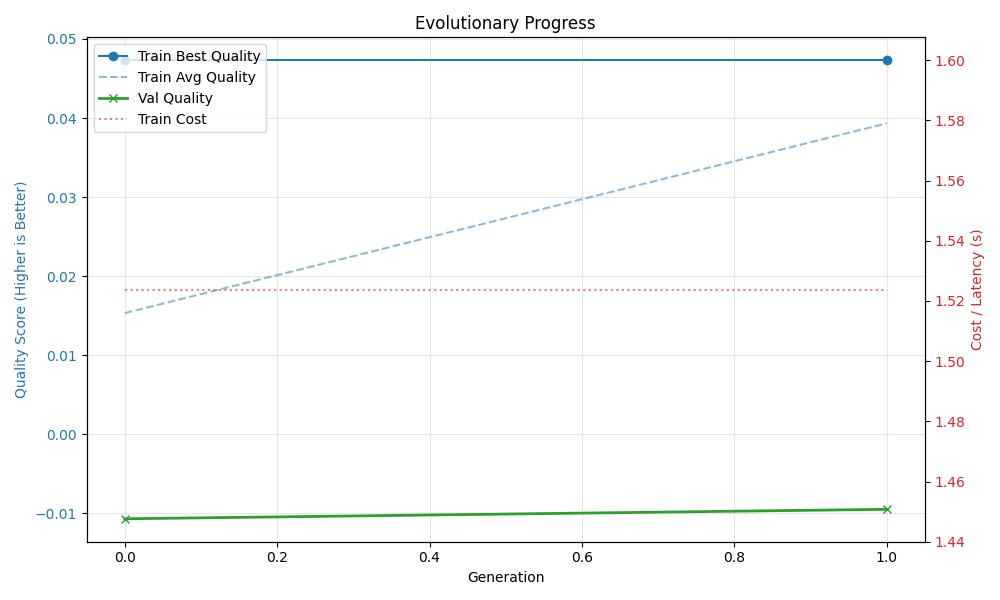
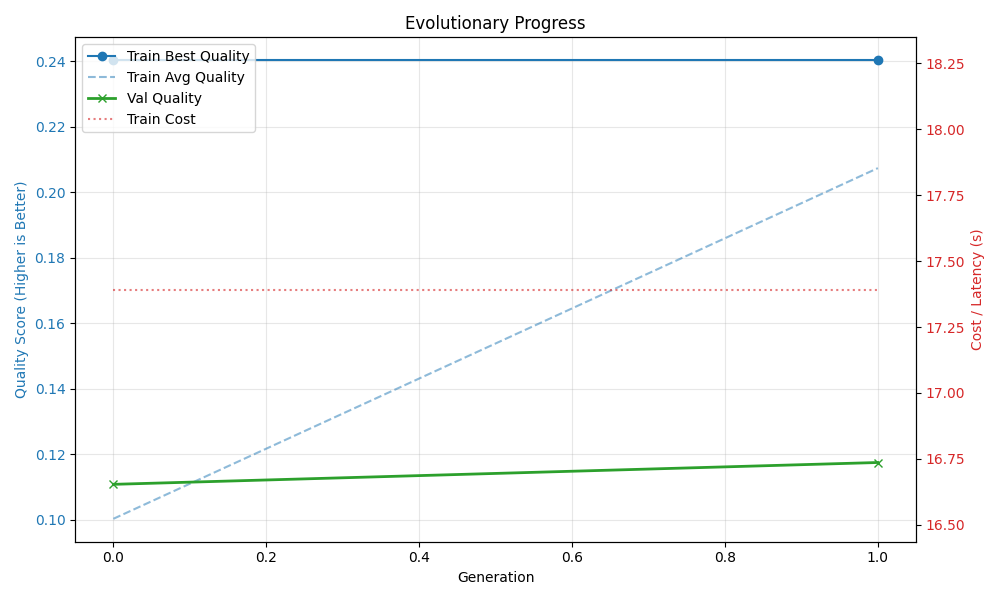
some new strats

diff --git a/swarm_rag_module/swarm_rag/evolution/execution/strategies.py b/swarm_rag_module/swarm_rag/evolution/execution/strategies.py
@@ -270,6 +270,63 @@ class GeneticStrategies:
 
         child.clear_cache()
         return child
+
+    @staticmethod
+    @GeneticRegistry.register_crossover(GeneticKey.ROOT_MIX_CROSSOVER)
+    def root_mix_crossover(parent1: Genome, parent2: Genome, ctx: EvolutionContext) -> Genome:
+        """
+        Swaps top-level branches of strategy trees.
+        This is less destructive than random subtree crossover as it preserves
+        the high-level logic (the operator) if both share it, or swaps whole approaches.
+        """
+        child = parent1.copy()
+        child.mutation_rate = (parent1.mutation_rate + parent2.mutation_rate) / 2.0
+
+        # 1. Uniform Parameter Mix
+        for key in child.params:
+            if random.random() > 0.5:
+                child.params[key] = parent2.params[key]
+        
+        for key in child.group_ratios:
+            if key in parent2.group_ratios and random.random() > 0.5:
+                child.group_ratios[key] = parent2.group_ratios[key]
+
+        # 2. Root Mix Crossover
+        for key in child.strategies:
+            p1_tree = parent1.strategies[key]
+            p2_tree = parent2.strategies[key]
+
+            # 70% chance to mix, 30% chance to clone one parent
+            if random.random() < 0.7:
+                # If both are operators with children (e.g. A * B, C + D)
+                if p1_tree.type == 'op' and p2_tree.type == 'op' and p1_tree.children and p2_tree.children:
+                     # Create new root using Parent 1's operator
+                     new_tree = ExpressionNode(type='op', value=p1_tree.value, children=[])
+                     
+                     # Take one child from P1 and one from P2
+                     # (Assumes binary operators for simplicity, or takes first child)
+                     c1 = p1_tree.children[0].copy()
+                     # If P2 has children, take one, otherwise take P2 itself
+                     c2 = p2_tree.children[-1].copy() if len(p2_tree.children) > 1 else p2_tree.children[0].copy()
+                     
+                     # Randomly swap order
+                     if random.random() > 0.5:
+                         new_tree.children = [c1, c2]
+                     else:
+                         new_tree.children = [c2, c1]
+                     
+                     child.strategies[key] = new_tree
+                else:
+                    # If structures don't match well, just swap the whole tree
+                    child.strategies[key] = p2_tree.copy()
+            else:
+                 if random.random() > 0.5:
+                     child.strategies[key] = p2_tree.copy()
+                 else:
+                     child.strategies[key] = p1_tree.copy()
+
+        child.clear_cache()
+        return child
     
     # --- CREATION ---
 
@@ -625,6 +682,101 @@ class GeneticStrategies:
                      genome.strategies[key] = ExpressionEvolution.mutate_tree(
                          tree, features=feature_list, mutation_rate=1.0, inplace=True
                      )
+
+        genome.clear_cache()
+        return genome
+
+    @staticmethod
+    @GeneticRegistry.register_mutation(GeneticKey.GUIDED_MUTATION)
+    def guided_mutation(genome: Genome, ctx: EvolutionContext) -> Genome:
+        """
+        Smart mutation that encourages known good patterns:
+        - Ensures 'semantic_similarity' is present in movement.
+        - Ensures 'pheromone_repulsion' (diversity) is occasionally injected.
+        - Prevents 'destructive' loss of key features.
+        """
+        tau = 0.2
+        genome.mutation_rate = genome.mutation_rate * np.exp(tau * np.random.normal(0, 1))
+        genome.mutation_rate = max(0.01, min(0.5, genome.mutation_rate))
+        rate = genome.mutation_rate * ctx.global_mutation_multiplier
+
+        # 1. Standard Parameter Jitter (Same as expression_tree_mutation)
+        for key, val in genome.params.items():
+            if random.random() < rate:
+                if random.random() < 0.8: # Fine tuning
+                    if isinstance(val, int):
+                        delta = int(round(random.gauss(0, 1.5)))
+                        genome.params[key] = max(1, val + delta)
+                    elif isinstance(val, float):
+                        genome.params[key] = max(0.001, min(0.999, val * random.gauss(1.0, 0.1)))
+                else: # Resample
+                     ranges = ctx.config.get('param_ranges', {})
+                     if key in ranges:
+                         min_v, max_v = ranges[key]
+                         if isinstance(min_v, int):
+                             genome.params[key] = random.randint(min_v, max_v)
+                         else:
+                             genome.params[key] = random.uniform(min_v, max_v)
+
+        # 2. Guided Tree Mutation
+        for key, tree in genome.strategies.items():
+            if random.random() < rate:
+                feature_list = ctx.expression_features.get(key)
+                if not feature_list:
+                    if "movement" in key: feature_list = ctx.expression_features.get("movement")
+                    elif "deposit" in key: feature_list = ctx.expression_features.get("deposit")
+                    elif "ranking" in key: feature_list = ctx.expression_features.get("ranking")
+                
+                # Check for critical features
+                all_nodes = ExpressionEvolution.get_all_nodes(tree)
+                has_semantic = any(n.value == 'semantic_similarity' for n in all_nodes)
+                has_pheromone = any(n.value == 'pheromone_repulsion' for n in all_nodes)
+                
+                # A) Injection Logic (If missing, strong chance to add)
+                injected = False
+                if "movement" in key:
+                    # If missing semantic, 50% chance to force inject it
+                    if not has_semantic and random.random() < 0.5:
+                        # Wrap: (Current + semantic_similarity) / 2
+                        new_node = ExpressionNode("op", "+", [
+                            tree.copy(), 
+                            ExpressionNode("feature", "semantic_similarity")
+                        ])
+                        genome.strategies[key] = ExpressionNode("op", "/", [
+                             new_node,
+                             ExpressionNode("const", 2.0)
+                        ])
+                        injected = True
+                    
+                    # If missing diversity, 30% chance to inject
+                    elif not has_pheromone and random.random() < 0.3:
+                         # Wrap: Current * pheromone_repulsion
+                        genome.strategies[key] = ExpressionNode("op", "*", [
+                            tree.copy(),
+                            ExpressionNode("feature", "pheromone_repulsion")
+                        ])
+                        injected = True
+                
+                # B) Standard Mutation (if not injected)
+                if not injected:
+                    # If we have critical features, we want to be CAREFUL not to delete them.
+                    # We use standard mutation but might revert if it loses the critical feature.
+                    original_tree = tree.copy()
+                    
+                    mutated_tree = ExpressionEvolution.mutate_tree(
+                        tree, features=feature_list, mutation_rate=rate, inplace=True
+                    )
+                    
+                    # Verification check
+                    if has_semantic:
+                         new_nodes = ExpressionEvolution.get_all_nodes(mutated_tree)
+                         if not any(n.value == 'semantic_similarity' for n in new_nodes):
+                             # Revert! We lost the most important signal.
+                             if random.random() < 0.8: # 80% chance to revert
+                                 genome.strategies[key] = original_tree
+                                 continue
+                    
+                    genome.strategies[key] = mutated_tree
 
         genome.clear_cache()
         return genome

diff --git a/stark/evolve_stark.py b/stark/evolve_stark.py
@@ -92,19 +92,22 @@ def run_evolution(
     # Balance: High Recall is king, but we penalize excessive cost (visited nodes)
     fitness_calc = FitnessCalculator(
         weights={
-            "Hit@1": 0.30,     
+            "Hit@1": 0.25,     
             "Hit@5": 0.15,     
-            "MRR": 0.15,        
-            "Recall@20": 0.15, 
-            # Others (not benchmarkmaxxed) 
-            "Hit@10": 0.07,    
-            "Recall@5": 0.07, 
-            "Hit@20": 0.05,     
-            "Recall@10": 0.06,
+            "MRR": 0.20,        
+            "Recall@20": 0.20, 
+            "Hit@10": 0.10,    
+            "Recall@5": 0.10, 
             "complexity": -0.0001,
-            # "variance": -0.1, 
-            # "latency": -0.00005, 
-            # Don't penalize these because we are using lexicographic fitness (these are accounted for in the secondary / tertiary scores) 
+            # Old Weights:
+            # "Hit@1": 0.30,     
+            # "Hit@5": 0.15,     
+            # "MRR": 0.15,        
+            # "Recall@20": 0.15, 
+            # "Hit@10": 0.07,    
+            # "Recall@5": 0.07, 
+            # "Hit@20": 0.05,     
+            # "Recall@10": 0.06,
         },
     )
     
@@ -125,16 +128,19 @@ def run_evolution(
         "population_size": pop_size,
         "concurrent_evaluations": concurrent_evals,
         "creation_strategy": "seeded_initialization", # Inject known good strategies
-        "crossover_strategy": "subtree_crossover", # Use the new GP-style crossover
-        "base_mutation_rate": 0.3,
+        "crossover_strategy": "root_mix_crossover",  # Less destructive than subtree swap
+        "mutation_strategy": "guided_mutation",      # Knowledge-infused mutation
+        "base_mutation_rate": 0.2,                   # Lowered for more refinement
+        "elite_fraction": 0.15,                      # Increased pressure to keep best traits
         
         # Constraints
         "expr_max_depth": 5,
         "param_ranges": {
-            "n_agents": (5, 60),
-            "steps": (2, 15),
-            "decay": (0.1, 0.9),
-            "initial_pool_size": (10, 50),
+            "n_agents": (10, 80),                    # Expanded range for more swarm capacity
+            "steps": (4, 15),                       # Minimum steps for enough exploration
+            "decay": (0.3, 0.95),
+            "initial_pool_size": (15, 60),
+            "start_subset": (5, 20),
         },
         
         # PATHS

diff --git a/swarm_rag_module/swarm_rag/evolution/types/expressions.py b/swarm_rag_module/swarm_rag/evolution/types/expressions.py
@@ -389,6 +389,11 @@ class ExpressionEvolution:
         return tree
     
     @staticmethod
+    def get_all_nodes(node: ExpressionNode) -> List[ExpressionNode]:
+        """Returns a list of all nodes in the tree."""
+        return [node] + sum([ExpressionEvolution.get_all_nodes(c) for c in node.children], [])
+
+    @staticmethod
     def crossover_trees(tree1: ExpressionNode, tree2: ExpressionNode) -> Tuple[ExpressionNode, ExpressionNode]:
         """
         Subtree crossover between two expression trees.
@@ -396,12 +401,8 @@ class ExpressionEvolution:
         t1 = tree1.copy()
         t2 = tree2.copy()
         
-        def get_all_nodes(node: ExpressionNode):
-            """Returns a list of all nodes in the tree."""
-            return [node] + sum([get_all_nodes(c) for c in node.children], [])
-        
-        nodes1 = get_all_nodes(t1)
-        nodes2 = get_all_nodes(t2)
+        nodes1 = ExpressionEvolution.get_all_nodes(t1)
+        nodes2 = ExpressionEvolution.get_all_nodes(t2)
         
         if len(nodes1) > 1 and len(nodes2) > 1:
             # Pick random nodes to swap (avoid root to maintain structure)

diff --git a/swarm_rag_module/swarm_rag/interfaces/enums.py b/swarm_rag_module/swarm_rag/interfaces/enums.py
@@ -38,10 +38,12 @@ class GeneticKey(Enum):
     # --- CROSSOVER ---
     UNIFORM_PARAMETER_MIX = "uniform_parameter_mix"
     SUBTREE_CROSSOVER = "subtree_crossover"
+    ROOT_MIX_CROSSOVER = "root_mix_crossover"
 
     # --- MUTATION ---
     EXPRESSION_TREE_MUTATION = "expression_tree_mutation"
     AGGRESSIVE_MUTATION = "aggressive_mutation"
+    GUIDED_MUTATION = "guided_mutation"
 
     # --- CREATION ---
     STANDARD_INITIALIZATION = "standard_initialization"
